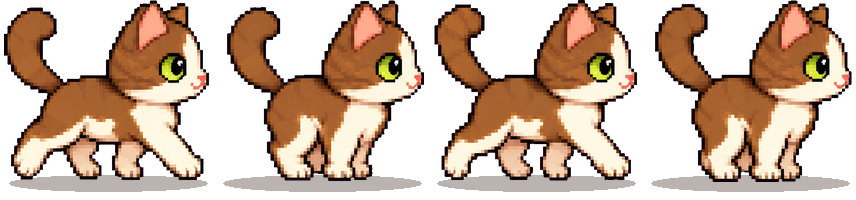
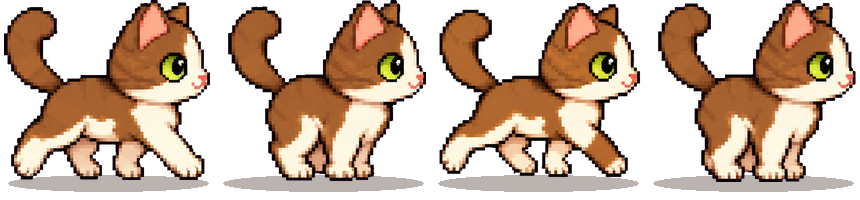
걷는 고양이 3번 칸을 반대쪽 다리로 (내딛기 → 모으기 → 반대 내딛기 → 모으기)
Claude-Session: https://claude.ai/code/session_01RZDveyQxuKoJk7R9pFd1fU

diff --git a/css/style.css b/css/style.css
@@ -510,7 +510,7 @@ input, select, textarea { padding: 8px 10px; border: 2px solid var(--line); bord
    제자리에 앉아 있다가 → 오른쪽으로 조금 걷고 → 앉아 쉬고 → 돌아서 학생 앞을 지나 왼쪽까지 → 앉아 쉬고 → 돌아서 제자리로.
    걸을 때는 cat-walk-strip.png 네 칸(다리 번갈아)을 넘기고, 쉴 때는 앉은 고양이(cat-idle)를 보여 줌 */
 .cat-roam { display: inline-block; position: relative; animation: cat-roam 12s linear infinite; }
-.cat-walk { display: inline-block; vertical-align: bottom; aspect-ratio: 214 / 200; overflow: hidden; animation: cat-walk-vis 12s step-end infinite; }
+.cat-walk { display: inline-block; vertical-align: bottom; aspect-ratio: 215 / 200; overflow: hidden; animation: cat-walk-vis 12s step-end infinite; }
 .cat-walk img { display: block; height: 100%; width: auto; image-rendering: pixelated; animation: cat-walk-frames .5s steps(4) infinite; }
 .cat-roam .cat-idle { position: absolute; bottom: 0; left: 50%; translate: -50% 0; animation: cat-sit-vis 12s step-end infinite; }
 @keyframes cat-walk-frames { to { transform: translateX(-100%); } }
